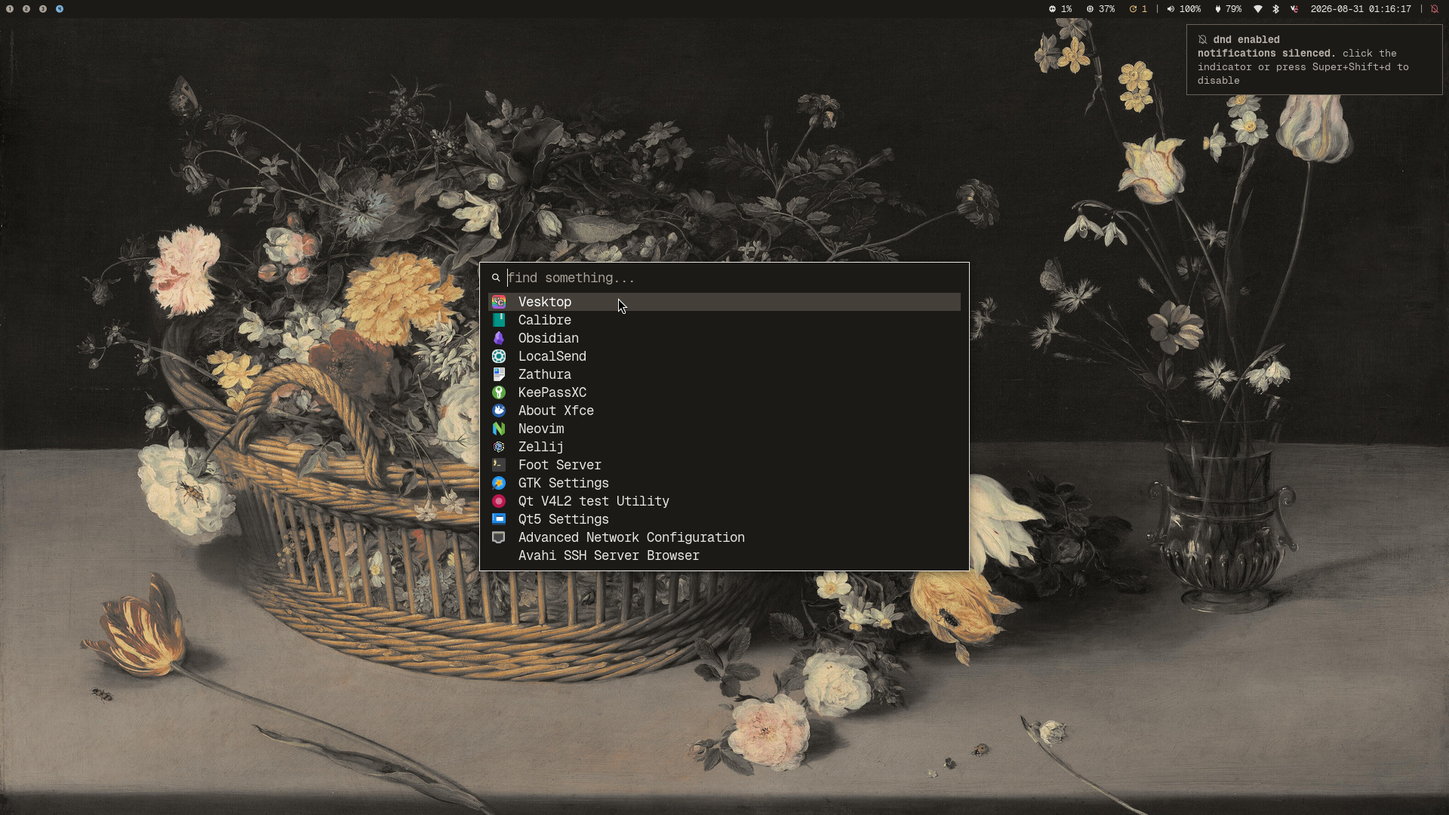
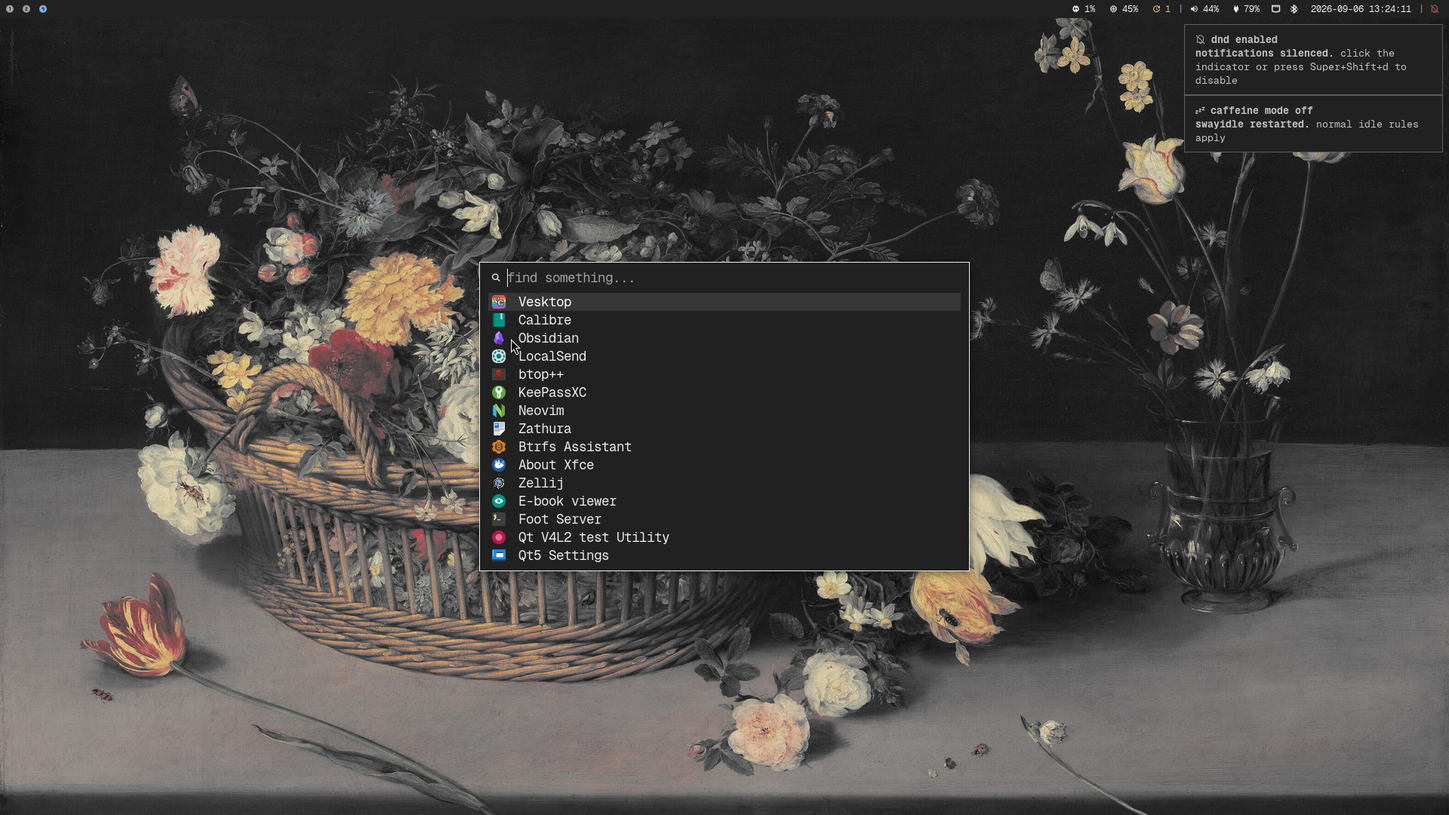
feat(theme): calmer grey theme that matches the desktop look

diff --git a/home/dot_config/vesktop/settings/quickCss.css b/home/dot_config/vesktop/settings/quickCss.css
@@ -1,6 +1,6 @@
-@import url("https://fonts.googleapis.com/css2?family=Geist+Mono:ital,wght@0,100..900;1,100..900&family=Geist:ital,wght@0,100..900;1,100..900&family=Source+Serif+4:ital,opsz,wght@0,8..60,200..900;1,8..60,200..900&display=swap");
+@import url("https://fonts.googleapis.com/css2?family=Geist+Mono:ital,wght@0,100..900;1,100..900&family=Geist:ital,wght@0,100..900;1,100..900&display=swap");
 @import url("https://raw.githubusercontent.com/surgedevs/visual-refresh-compact-title-bar/refs/heads/main/hidden.css");
-@import url(https://codeberg.org/ridge/Discord-Adblock/raw/branch/main/discord-adblock.css);
+@import url("https://codeberg.org/ridge/Discord-Adblock/raw/branch/main/discord-adblock.css");
 
 :root {
   --font-primary: "Geist", system-ui, sans-serif;

diff --git a/scripts/flint_palette.py b/scripts/flint_palette.py
@@ -13,6 +13,7 @@ import math
 import sys
 from collections import OrderedDict
 from pathlib import Path
+from typing import NoReturn
 
 import yaml
 
@@ -21,7 +22,7 @@ class PaletteError(Exception):
     pass
 
 
-def fail(message: str) -> None:
+def fail(message: str) -> NoReturn:
     raise PaletteError(message)
 
 
@@ -593,8 +594,9 @@ def load_hue_budget(theme_name: str, shared: dict) -> dict:
 
 
 def validate_hue_budget(theme_name: str, raw: dict, shared: dict) -> None:
-    """Guard against palette drift: every raw token must be near-neutral or
-    belong to a declared hue family (matching the One Dark / Sway bases)."""
+    """Guards against palette drift. Every raw token must be near-neutral or
+    belong to a declared hue family matching the Orchis accents and
+    terminal spectrum."""
     budget = load_hue_budget(theme_name, shared)
     families = budget["families"]
     tolerance = float(budget["tolerance"])

diff --git a/docs/palette-system.md b/docs/palette-system.md
@@ -1,6 +1,6 @@
 # Palette system
 
-Updating colors across dozens of configuration files was tedious, so the palette, the set of files that defines every color in this setup, uses a single source of truth for the entire desktop.
+Updating colors across dozens of configuration files was tedious. The _palette_ uses a single source of truth for the entire desktop. The palette is the set of files that defines every color in this setup.
 
 This section explains how the palette system works. It covers how the files are organized, what the build script derives from them, why the colors stay readable, and how templates pull values out at apply time. It is written for people who are new to this kind of setup, so every term is defined the first time it appears.
 
@@ -17,12 +17,18 @@ palettes/flint/
 
 Before touching the files, learn two terms:
 
-- A **raw token** is a named color value, the actual hex like `#303030`.
-- A **semantic role** is a named job a color does, like `background` or `focus_border`. Roles point at tokens, and the same role can point at different tokens in different variants.
+- A _raw token_ is a named color value, the actual hex like `#303030`.
+- A _semantic role_ is a named job a color does, like `background` or `focus_border`. Roles point at tokens, and the same role can point at different tokens in different variants.
 
 `scripts/build_palette_data.py` validates the palette, computes all necessary formats and alpha blends, and writes `.chezmoidata.yaml` into `home/`. When you run `chezmoi apply`, chezmoi reads that file and injects the colors into any `.tmpl` configuration.
 
-Changing a color takes the same steps every time. Edit a palette file, run the build script, and apply with chezmoi. The sections that follow cover those steps, from the files to the derived data to the checks that catch mistakes.
+Changing a color takes the same steps every time:
+
+1. Edit a palette file.
+2. Run the build script.
+3. Apply with chezmoi.
+
+The sections that follow cover those steps, from the files to the derived data to the checks that catch mistakes.
 
 ## How the files are structured
 
@@ -44,25 +50,29 @@ This file defines everything that is not tied to a specific color variant:
 
 ### The `dark.yaml` and `light.yaml` files
 
-These contain the actual hex values (`raw`), GTK theme names (`appearance`), upstream Catppuccin flavors (`mocha` versus `latte`), `semantic_overrides`, and the `qt_bevel` ladder.
+These contain the actual hex values (`raw`), _GIMP Toolkit_ (_GTK_) theme names (`appearance`), upstream Catppuccin flavors (`mocha` versus `latte`), `semantic_overrides`, and the `qt_bevel` ladder.
 
 A flavor is the Catppuccin term for a complete color scheme. GTK is the widget toolkit that many Linux apps use. `semantic_overrides` is the per-variant list of roles that point somewhere different from the shared defaults. `qt_bevel` is the five-step Qt button ladder, declared as raw tokens from lightest to darkest instead of hand-picked hexes. Qt is the toolkit many desktop apps are built on. The design invariants section explains the ladder in detail.
 
 ## The accent
 
-Every variant carries exactly one accent, expressed through the semantic roles (`accent`, `accent_text`, `accent_bright`, `accent_strong`, `selection`, and `on_selection`) instead of swappable bundles. An accent is not a single color. Pointing `accent` at one raw token breaks selection contrast and fails in the light variant, so each accent is really three cooperating roles:
+Every variant carries exactly one accent. It is expressed through the semantic roles (`accent`, `accent_text`, `accent_bright`, `accent_strong`, `selection`, and `on_selection`), not through swappable bundles. An accent is not a single color. Pointing `accent` at one raw token breaks selection contrast and fails in the light variant. Each accent is really three cooperating roles:
 
-1. **Foreground text and icons.** Bright and readable against the base background, at 4.5:1 or more.
-2. **UI highlight.** Distinct for links, focus outlines, and interactive highlights.
-3. **Selection surface.** A tint with enough depth to keep the selection text readable, because `on_selection` against `selection` must reach 4.5:1. Flint uses a neutral grey-blue with near-white text. Sand uses the deep blue with the cream background as the text color.
+1. **Foreground text and icons.** Bright and readable against the base background, at 4.5:1 or more
+2. **UI highlight.** Distinct for links, focus outlines, and interactive highlights
+3. **Selection surface.** A tint with enough depth to keep the selection text readable, because `on_selection` against `selection` must reach 4.5:1. Flint uses a neutral grey-blue with near-white text. Sand uses the deep blue with the light background as the text color.
 
-Window borders follow the Sway white invariant instead of the accent, the Sway convention that the focused border takes the theme's most legible neutral color. The `window_focused_border` role is the theme's `text` color in both variants, light grey `#eae7e3` in Flint (the lit side of the ramp) and dark `#282522` in Sand (the dark side), so focus is the theme's most legible neutral. Blue was tested and rejected for this job, because the accent's hue matches the cool-grey inactive borders and therefore has neither luminance nor hue separation. The `focus_border` role stays the neutral `overlay_strong` grey, and the accent only appears in text, search matches, and interactive highlights.
+Window borders follow the Sway white invariant instead of the accent, the Sway convention that the focused border takes the theme's most legible neutral color. The `window_focused_border` role is the theme's `text` color in both variants, light grey `#EDEDED` in Flint (the lit side of the ramp) and dark `#242424` in Sand (the dark side), so focus is the theme's most legible neutral. Blue was tested and rejected for this job, because the accent's hue matches the cool-grey inactive borders and therefore has neither luminance nor hue separation. The `focus_border` role stays the neutral `overlay_strong` grey, and the accent only appears in text, search matches, and interactive highlights.
 
-Both variants carry the same blue accent, one hue system at two lightness extremes. Flint uses a mid blue (`accent_blue`) with a bright text variant, and Sand uses a deep blue so text keeps its contrast against the cream background.
+Both variants carry the same blue accent, one hue system at two lightness extremes. Flint uses the Orchis selection blue (`accent_blue`) with a brighter text variant, and Sand uses a darkened Orchis blue so text keeps its contrast against the light background.
 
-Both ramps are warm. Sand's cream neutrals and Flint's warm dark greys share the same hue family, which sits between 33 and 39 degrees. In Flint the warmth runs the whole way down the ramp. The deep background steps carry the same family hue, so the darkest shade is a warm near-black instead of a neutral one, and no surface sits on a cold base. Chroma stays low at every step, so the warmth reads as a cast rather than a tint. The warmth does not live in the accent.
+Both ramps are neutral. Every step of both neutral ramps measures 0% saturation, matching the Orchis GTK values the desktop already uses. Dark `bg` is `#212121` with `surface_0` at `#2C2C2C`. Light `bg` is `#F2F2F2`.
 
-The accent roles (`accent`, `accent_strong`, and `accent_bright`) are shared defaults. Only `accent_text` needs an override, because the bright blue fails contrast on cream, and the override lives in the light variant.
+Success, error, and warning follow the Orchis Material colors, darkened wherever the text-contrast floors demand it. The hue budget caps neutral saturation at 10% so the ramps cannot drift warm again.
+
+The remaining chromatic tokens are the working colors, not neutrals. They are cyan, purple, peach, and the terminal spectrum, and each sits inside a declared hue family. The accent stays neutral.
+
+The accent roles (`accent`, `accent_strong`, and `accent_bright`) are shared defaults. Only `accent_text` needs an override, because the bright blue fails contrast on the light background, and the override lives in the light variant.
 
 ## Design invariants
 
@@ -81,24 +91,24 @@ The rules are full of specialist terms, so this section explains them in plain E
 #### How colors behave on screen
 
 - **Wash and hover tint.** A wash, or hover tint, is a barely-there background tint, roughly 1:1 contrast with the base color. On its own it looks like nothing happened, which is by design. The rule that comes out of this is simple. Every hover style must also flip a border or text color in the same transition, or the hover reads as nothing at all.
-- **Bevel ladder.** Qt paints buttons as a band of five shades running from light to dark. If two of those steps are near-identical, the button looks flat. These steps stay subtle, usually in the ΔE 3 to 5 range, with two deliberate exceptions. In Flint the step from `surface_0` to `bg` is a full 14.0 ΔE, because `bg` is the desktop root and `surface_0` is the first panel shade, and the panel needs a clear step away from the root. In Sand the two darkest steps, from `surface_1` to `bg_deep` and from `bg_deep` to `surface_2`, sit at 2.9 ΔE, because the cream ramp's four surface shades sit close together, and Qt uses the two darkest shades only for subtle edges. Each variant declares its ladder once as `qt_bevel` (raw tokens, lightest to darkest), and the build derives the `qt_light`, `qt_midlight`, `qt_button`, `qt_mid`, and `qt_dark` roles from it. It enforces a strictly monotonic ramp, and any two adjacent steps that fall below 1.05:1 contrast and below ΔE 4.0 at the same time are rejected as indistinguishable. The ladder is a contiguous slice of the neutral ramp, so it cannot drift out of the ramp.
-- **Floor ceiling.** A floor ceiling is a color that is locked to a minimum contrast even when a "nicer" value would dip below it. Faint text must stay readable. In the dark variant, the surface ladder physically cannot carry 4.0:1 on `surface_2`, so `text_muted` on `surface_2` is floored at 3.0:1, which is the realistic limit. `overlay_strong` on the background gets the same floor.
-- **Two brights in the light variant.** The word _bright_ means two different things in Sand, the light variant. The ANSI `bright_*` slots are darker than their normal counterparts, because bright text must stay readable on the cream background. The accent and error `*_bright` colors are lighter, because they are hover tints meant to stand out against the base. Same word, opposite directions, both deliberate.
+- **Bevel ladder.** Qt paints buttons as a band of five shades running from light to dark. If two of those steps are near-identical, the button looks flat. These steps stay subtle, usually in the ΔE 3 to 5 range, with one wider step per variant. In Flint the step from `surface_0` to `bg` is 5.3 ΔE, because `bg` is the desktop root and `surface_0` is the first panel shade, and the panel needs a clear step away from the root. In Sand the step from `bg_subtle` to `surface_1` is 7.8 ΔE, because the light ramp jumps from chrome to raised surfaces there. Each variant declares its ladder once as `qt_bevel` (raw tokens, lightest to darkest), and the build derives the `qt_light`, `qt_midlight`, `qt_button`, `qt_mid`, and `qt_dark` roles from it. It enforces a strictly monotonic ramp, and any two adjacent steps that fall below 1.05:1 contrast and below ΔE 4.0 at the same time are rejected as indistinguishable. The ladder is a contiguous slice of the neutral ramp, so it cannot drift out of the ramp.
+- **Floor ceiling.** A floor ceiling is a color that is locked to a minimum contrast even when a "nicer" value dips below it. Faint text must stay readable. In the dark variant, the surface ladder physically cannot carry 4.0:1 on `surface_2`, so `text_muted` on `surface_2` is floored at 3.0:1, which is the realistic limit. `overlay_strong` on the background gets the same floor.
+- **Two brights in the light variant.** The word _bright_ means two different things in Sand, the light variant. The ANSI `bright_*` slots are darker than their normal counterparts, because bright text must stay readable on the light background. The accent and error `*_bright` colors are lighter, because they are hover tints meant to stand out against the base. Same word, opposite directions, both deliberate.
 - **Swaylock slices invert per variant.** The swaylock ring hosts the keystroke, backspace, and caps lock arcs. In Flint the ring is mid-grey and the arcs are light (`ansi_white`, `yellow_bright`, and `error_bright`). In Sand the ring is light (`surface_2`) and the arcs are the dark chromatic tokens (`text`, `yellow`, and `error`). A light-variant slice must be a dark color, because every light-variant chromatic token is dark by design. Pointing them at `overlay_strong` produced 1.35:1 arcs that were invisible.
 
 #### What the colors mean
 
 - **One gold hue.** `caution`, `warning`, and `yellow` are deliberately the same amber. That means syntax yellow in the editor, UI warnings, and the caution meter in btop all read as one color across the desktop. The three names are vocabulary, not three different colors. Keeping them identical is what makes warnings recognizable everywhere.
-- **Hue is reserved for outcomes.** Idle things stay neutral, and only states that mean something get color. The swaylock ring stays grey while it is verifying, and mako notification cards keep the base background in every urgency. Color appears only for progress and failure, never for "everything is fine". Like the swaylock text that turns red only when the password is wrong, a mako card changes its text, border, and progress colors instead of repainting its surface. Chroma marks the failure state, never idle or in-progress.
+- **Hue is reserved for outcomes.** Idle things stay neutral, and only states that mean something get color. The swaylock ring stays grey while it is verifying, and dunst notification cards keep the base background in every urgency. Color appears only for progress and failure, never for "everything is fine". Like the swaylock text that turns red only when the password is wrong, a dunst card changes its text, border, and progress colors instead of repainting its surface. Chroma marks the failure state, never idle or in-progress.
 - **Accent knob.** `accent` and `accent_strong` move together per variant, blue in both Flint and Sand, so links and highlights stay in agreement. `focus_border` and `window_focused_border` are deliberately split off from the accent. The `window_focused_border` role uses the `text` color, light grey in Flint and dark in Sand, the two ends of the same neutral ramp, while the `focus_border` role stays the neutral `overlay_strong` grey. Window borders stay readable against any wallpaper, while the accent lives in text, search matches, and interactive highlights.
-- **`fastfetch_key` stays accent-independent.** The fastfetch logo is fixed to the Catppuccin `peach` token, so the key color must not follow the accent hue. In Flint the key is the bright blue. In Sand it is the deep blue, because the bright blue fails contrast on cream.
-- **Terminal blue and UI blue are separate tokens.** In Flint, `ansi_blue` is the bright syntax blue (`#68a0ca`) and `accent_blue` is the muted UI blue (`#5a8bb0`). The terminal keeps the brighter one, because syntax highlights need the extra brightness against the dark background, and the UI accent stays muted, because it also paints fills, borders, and hover tints. One Dark, the palette's main hue source, does the same, with its bright syntax blue and its more saturated UI accent. In Sand the two share one token, because the cream background cannot host two different blues at the same lightness. The pair is context-separated, so the two blues do not appear together, and the split only exists in Flint.
+- **`fastfetch_key` stays accent-independent.** The fastfetch logo is fixed to the Catppuccin `peach` token, so the key color must not follow the accent hue. In Flint the key is the bright blue. In Sand it is the deep blue, because the bright blue fails contrast on the light background.
+- **Terminal blue and UI blue are separate tokens.** In Flint, `ansi_blue` is the bright syntax blue (`#61AFEF`) and `accent_blue` is the Orchis selection blue (`#3281EA`). The terminal keeps the brighter one, because syntax highlights need the extra brightness against the dark background. The UI accent stays at the Orchis value, because it also paints fills, borders, and hover tints and must match GTK. In Sand the two stay separate as well, with `ansi_blue` as the muted terminal blue (`#225882`) and `accent_blue` as the vivid fill blue (`#166AD9`). The two blues in each variant are context-separated, so the similarity across roles does not matter.
 
 #### Intentional lookalikes
 
 - **`raw_aliases` versus `raw_near_aliases`.** `raw_aliases` are groups of names that must all point at the same hex value. For example, `ansi_green` and `success` are aliases of each other. The build warns if a group drifts apart. `raw_near_aliases` are pairs that are almost identical, which is fine because they are context-separated. Almost identical is the point. Do not "fix" one without checking the other.
 - **Context-separated.** Two colors are context-separated when they are similar but never appear in the same place, so the similarity does not matter. Terminal text and button fill are a classic example.
-- **Accepted near-collisions.** `ansi_bright_red` and `error_deep` sit within ΔE 5.8 of each other. That is accepted, because the two are context-separated. One is terminal text, and the other is a button fill. Keep the gap when editing either side.
+- **Accepted near-collisions.** `ansi_black` and `surface_0` sit within ΔE 1.0 of each other in Flint. That is accepted and declared in `raw_near_aliases`, because the two are context-separated. One is terminal black, and the other is the first panel shade. Keep the gap when editing either side.
 
 #### Search highlight ladder
 
@@ -108,7 +118,7 @@ Search prominence comes from depth of blue, never brightness. The same three-ste
 2. **Other matches** (`search_bg`) are the lighter sibling in the accent-blue family, with whichever text contrast wins.
 3. **Current match** (`inc_search_bg`) is the deepest, most saturated blue of the ladder, with light text.
 
-Do not push a search fill toward the white-blue range. Colors in that range look flashy, and they stop following the depth-of-blue structure. In Flint the ladder is `#7bb3dc` for other matches over `#5a8bb0` for the current match. In Sand it is `#4178a3` over `#225882`. The zathura `highlight-active` color follows `search_bg` at 80% alpha (`search_80`) and must track any change to step 2.
+Do not push a search fill toward the white-blue range. Colors in that range look flashy, and they stop following the depth-of-blue structure. In Flint the ladder is `#7FB3F0` for other matches over `#3281EA` for the current match. In Sand it is `#4178a3` over `#166AD9`. The zathura `highlight-active` color follows `search_bg` at 80% alpha (`search_80`) and must track any change to step 2.
 
 ## What the build script derives
 
@@ -125,7 +135,7 @@ The `.flint.resolved.<role>` and `.flint.raw.<token>` paths expose the solid for
 
 ### Alpha tokens
 
-Alpha tokens represent transparent overlays. The derived `.hex` and `.bare` forms are 8-digit hex, like `#5a8bb0b2`, for apps that parse alpha such as swaylock and zathura. The `.rgba` form is a Cascading Style Sheets (CSS) `rgba(r, g, b, a)` string for waybar.
+Alpha tokens represent transparent overlays. The derived `.hex` and `.bare` forms are 8-digit hex, like `#3281EAb2`, for apps that parse alpha such as swaylock and zathura. The `.rgba` form is a _Cascading Style Sheets_ (_CSS_) `rgba(r, g, b, a)` string for waybar.
 
 ## Contrast checks
 
@@ -138,7 +148,7 @@ Alpha tokens represent transparent overlays. The derived `.hex` and `.bare` form
 - ANSI text must maintain at least 4.5:1 against the terminal background, and bright variants must have a measurable visual distinction from normal variants (1.05:1 or more).
 - LUT anchor palettes must contain at least 12 anchors, and any two anchors inside one list must stay at least ΔE 3.0 apart, just above the just-noticeable difference, so `lutgen` does not produce visible color banding, stepped edges that appear when a smooth gradient changes in coarse jumps, on complex wallpapers. The floor is data in `lut_min_anchor_delta_e`, and the build rejects lists that contain near-identical anchors.
 
-The hue-budget validator guards the neutrality thesis in code, the rule that hue is reserved for outcomes and everything else stays neutral. Every raw token must be near-neutral (saturation at or below 25%, which covers One Dark's neutral cast), near-black or near-white, or fall within 10 degrees of one of the seven declared hue families (One Dark's red, orange, yellow, green, cyan, blue, and purple). The `diff_*` washes and `warning_tint` are exempt, because they are intentional low-contrast tints. Any token that drifts outside the budget aborts the build.
+The hue-budget validator guards the neutrality thesis in code, the rule that hue is reserved for outcomes and everything else stays neutral. Every raw token must be near-neutral (saturation at or below 10%), near-black or near-white, or fall within 10 degrees of one of the eight declared hue families (red, orange, yellow, green, mint, cyan, blue, and purple, covering the Orchis accents and the terminal spectrum). The `diff_*` washes and `warning_tint` are exempt, because they are intentional low-contrast tints. Any token that drifts outside the budget aborts the build.
 
 If any pair fails to meet its contrast floor, the build script prints the failures and aborts before you can apply broken colors.
 
@@ -157,4 +167,4 @@ inside-color={{ $c.background.bare_ff }}
 text-color={{ $c.text.bare_ff }}
 ```
 
-To switch variants, see [Switch variants](theming.md#switch-variants) in the theming section.
+For more information about switching variants, see [Switch variants](theming.md#switch-variants) in the theming section.

diff --git a/docs/theming.md b/docs/theming.md
@@ -2,11 +2,11 @@
 
 This page explains how colors work in this repository. It covers where the colors come from, how they get into your config files, how to switch between the dark and light variants, and how wallpapers are recolored to match. It is written for people who are new to this kind of setup, so every term is defined the first time it appears.
 
-Everything inside this repo uses a custom theme called Flint (dark) and its light counterpart, Sand. Flint is a soft dark-grey theme built from colors in One Dark, the color scheme of the Atom text editor, and from Sway, the compositor that SwayFX is built on. The two variants exist so the desktop can follow the dark and light appearance settings with every app switching at the same time. They are applied to almost every app config in this repo.
+Everything inside this repository uses a custom theme called Flint (dark) and its light counterpart, Sand. Flint is a neutral grey theme whose chrome matches Orchis, the GTK theme of this desktop, with its working colors drawn from the One Dark terminal spectrum. The two variants exist so the desktop can follow the dark and light appearance settings with every app switching at the same time. They are applied to almost every app config in this repo.
 
 ## The color pipeline
 
-One set of files defines every color, and everything else is derived from it. Nothing in this repo hardcodes a hex value twice. A hex value is a color written as six hexadecimal digits, like `#5a8bb0`.
+One set of files defines every color, and everything else is derived from it. Nothing in this repository hardcodes a hex value twice. A hex value is a color written as six hexadecimal digits, like `#3281EA`.
 
 The pipeline has three stages:
 
@@ -14,15 +14,15 @@ The pipeline has three stages:
 2. **The build script.** `scripts/build_palette_data.py` reads those files, validates every color, and exports the active variant into `.chezmoidata.yaml` in the effective chezmoi source root, which is `home/` in this repo.
 3. **Templates.** The config files themselves are stored as `.tmpl` files. At apply time, chezmoi fills them in with the color data and writes the finished configs into your home directory.
 
-So changing a color means editing one file and re-applying. The rest happens automatically, and it is boring on purpose.
+So changing a color means editing one file and re-applying. The rest happens automatically.
 
-For more details on the architecture, see [the palette system architecture](palette-system.md).
+For more information about the architecture, see [the palette system architecture](palette-system.md).
 
 ## The two variants
 
-The theme has two variants, `dark` (Flint) and `light` (Sand).
+The theme has two variants. The `dark` variant is Flint and the `light` variant is Sand.
 
-Each variant carries exactly one accent, built into the semantic roles (`accent`, `accent_text`, `accent_bright`, `accent_strong`, `selection`, and `on_selection`). Both Flint and Sand use the same blue accent, one hue system at two lightness extremes. The warmth of Sand lives in its cream neutrals, not in its accent.
+Each variant carries exactly one accent, built into the semantic roles (`accent`, `accent_text`, `accent_bright`, `accent_strong`, `selection`, and `on_selection`). Both Flint and Sand use the same blue accent, one hue system at two lightness extremes. The neutrals of both variants are true greys matching the Orchis GTK theme, not tints. The blue accent carries the strong hue in the chrome.
 
 Window borders are the one deliberate exception. The `window_focused_border` role follows the theme's `text` color instead of the accent, light grey in Flint and dark in Sand. The `focus_border` role stays the neutral `overlay_strong` grey in both variants, so window borders stay neutral against any wallpaper.
 
@@ -37,17 +37,17 @@ make dark && chezmoi apply
 make light && chezmoi apply
 ```
 
-`make dark` runs the palette build script (`uv run --with pyyaml python3 scripts/build_palette_data.py --theme dark`), which validates the colors and exports the dark variant into `.chezmoidata.yaml`. The `make light` target does the same for Sand.
+`make dark` runs the palette build script. Run `uv run --with pyyaml python3 scripts/build_palette_data.py --theme dark` to invoke it directly. The script validates the colors and exports the dark variant into `.chezmoidata.yaml`. The `make light` target does the same for Sand.
 
-The generated `home/.chezmoidata.yaml` file is local-only and does not belong in version control. It is gitignored, because it changes every time you switch variants.
+The generated `home/.chezmoidata.yaml` file is local-only and does not belong in version control. It is excluded by Git, because it changes every time you switch variants.
 
 ## Wallpaper theming
 
-The repo also includes a helper called `flint-wallpaper` that uses [lutgen-rs](https://github.com/ozwaldorf/lutgen-rs) to recolor arbitrary wallpapers to match Flint or Sand. It caches both the generated LUTs and output images, so later runs reuse the cached results.
+The repo also includes a helper called `flint-wallpaper` that uses [lutgen-rs](https://github.com/ozwaldorf/lutgen-rs) to recolor arbitrary wallpapers to match Flint or Sand. It caches both the generated recolor data and output images, so later runs reuse the cached results.
 
-A lookup table (LUT) is a mapping that lutgen produces from your theme colors, used to shift every pixel of an image toward those colors. Generating a LUT is the expensive part, so the helper generates it once and reuses it until something about the theme changes.
+A _lookup table_ (_LUT_) is a mapping that lutgen produces from your theme colors, used to shift every pixel of an image toward those colors. Generating a LUT is the expensive part, so the helper generates it once and reuses it until something about the theme changes.
 
-LUT palette templates live in `home/dot_config/lutgen/` (`flint.tmpl`, `flint-cool.tmpl`, `flint-warm.tmpl`) and get rendered from the active theme data on apply.
+LUT palette templates live in `home/dot_config/lutgen/`. The `flint.tmpl`, `flint-cool.tmpl`, and `flint-warm.tmpl` files get rendered from the active theme data on apply.
 
 ```sh
 # Recolor an image to match the active theme and set it as the wallpaper
@@ -60,10 +60,10 @@ flint-wallpaper --theme light --palette warm --set ~/Pictures/Wallpapers/scenery
 flint-wallpaper --rbf --shape 96.0 --set ~/Pictures/Wallpapers/scenery.jpg
 ```
 
-In these examples, `--theme light` forces the light variant, `--palette warm` picks the warm palette template, and `--rbf` switches from the default blur-based recoloring to a Gaussian radial basis function (RBF) method with the given shape value.
+In these examples, `--theme light` forces the light variant. `--palette warm` picks the warm palette template. `--rbf` switches from the default blur-based recoloring to a _Gaussian radial basis function_ (_RBF_) method with the given shape value.
 
 The helper is not bound to any keyboard shortcut. When a wallpaper path is set, the script that applies the theme runs it after each variant switch, so the wallpaper matches the active variant without extra steps.
 
 ## Screenshots
 
-Desktop screenshots (dark and light) live in `assets/` and are referenced from the README.
+The dark and light desktop screenshots live in `assets/` and are referenced from the `README.md` file. They are hand-staged captures, so they are not regenerated automatically.
